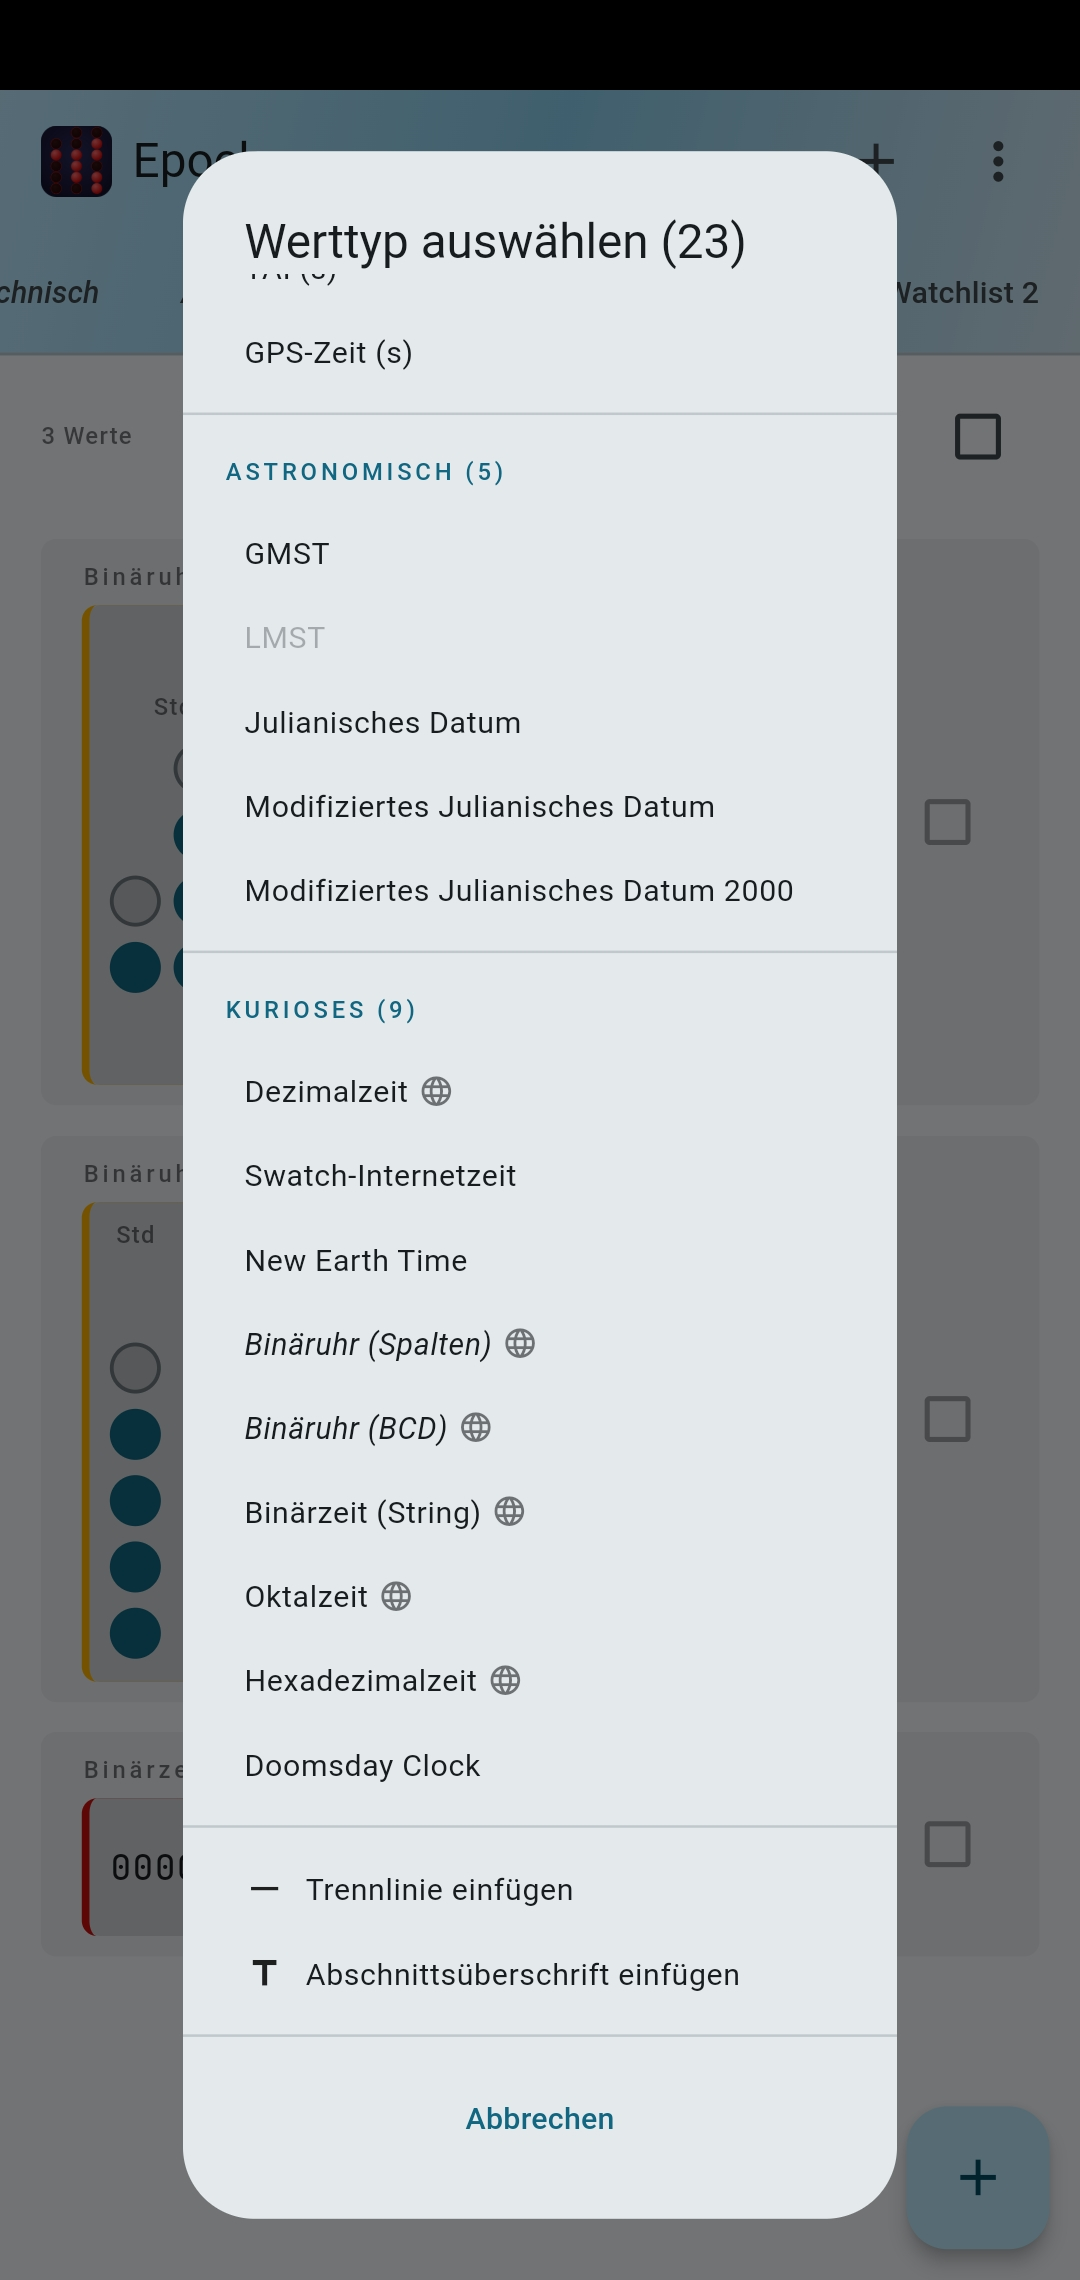
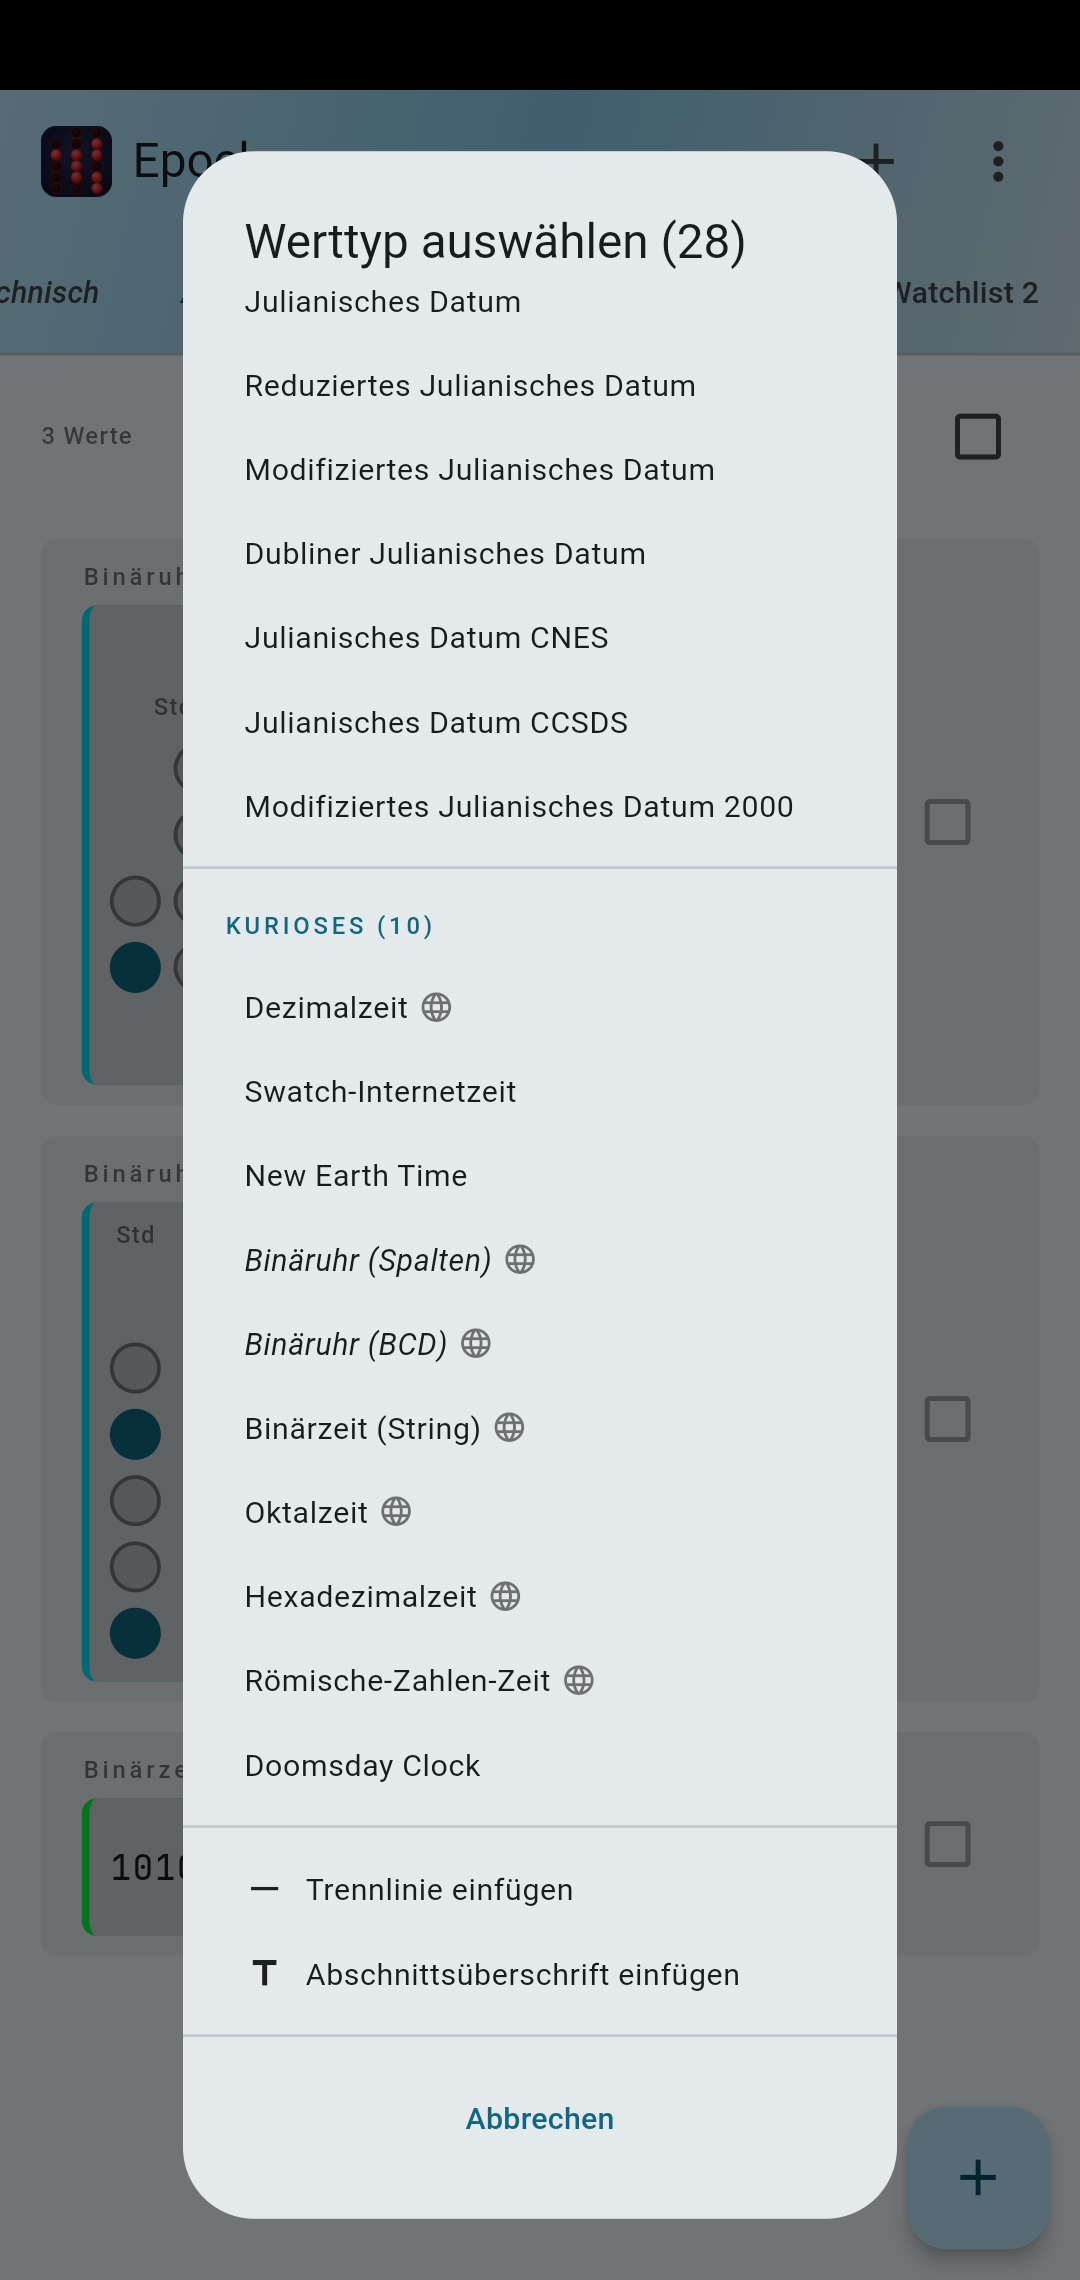
Release 1.6.0 - build script: create sha256sums file - README, CHANGELOG - fastlane: changelogs, full_description, screenshots

diff --git a/lib/time_utils.dart b/lib/time_utils.dart
@@ -464,7 +464,7 @@ class TimeUtils {
   /// from 1 January of its year until the next entry (simplification: changes
   /// within a year are not modelled). Source: the timeline at
   /// https://en.wikipedia.org/wiki/Doomsday_Clock – verify when adding entries.
-  /// Last check for accuracy of hardcoded values: 2026-09-01.
+  /// Last check for accuracy of hardcoded values: 2026-10-27.
   static const Map<int, int> _doomsdaySecondsToMidnightByYear = {
     1969: 600,  1972: 720,  1974: 540,  1980: 420,  1981: 240,
     1984: 180,  1988: 360,  1990: 600,  1991: 1020, 1995: 840,

diff --git a/README.md b/README.md
@@ -83,8 +83,9 @@ also happen to spell out **E**legant **p**resentation **o**f
 
 ### Formats and display options
 - Date and time formats: presets or custom patterns; 12/24-hour format
-- Expanded date (ISO week number, day of the year), thousands separator
+- Expanded date (ISO week number, day of the year)
 - Day quarter color on or off
+- Thousands separator switch
 
 ### Config files
 - Export, import and reset all preferences (cross-platform, with automatic
@@ -111,10 +112,10 @@ also happen to spell out **E**legant **p**resentation **o**f
 - All settings stored locally on your device
 - No permissions required – for LMST you can enter longitude manually, or
   temporarily grant ACCESS_COARSE_LOCATION permission (one-time setup step)
-- Free software (GPL), reproducible builds
+- Free software (GPL), F-Droid reproducible builds
 
 ### Planned
-- Android widgets and value conversion between time systems
+- Android widgets, value conversion between time systems, new value types, and more
 
 
 ## What makes Epoch different?
@@ -129,10 +130,9 @@ which ones you care about, and explains what each one means.
   friends or colleagues abroad), including their upcoming clock changes
 - need current time zone rules although your phone's system no longer
   receives updates: old devices keep outdated rules, Epoch ships its own
-  up-to-date IANA database (e. g. recent changes in Canada)
+  up-to-date IANA database (e. g. for recent changes in Canada)
 - want to see how any moment, past or future, looks in all time systems,
   without touching your system clock
-  - need the Unix timestamp, Julian Date, GPS or sidereal time of a given date
 - enjoy unusual time representations like Swatch Internet Time, day seconds,
   Roman numerals or binary clocks
 - do amateur astronomy and want a single app for sidereal time, LMST and
@@ -290,16 +290,14 @@ Check the file integrity (Linux):
 ```
 $ sha256sum --check --ignore-missing sha256sums.txt
 ```
-Check the signature (`apksigner` is part of the Android SDK build tools):
+Check the signature with `apksigner verify --print-certs <downloaded apk>` (`apksigner` is part of the Android SDK build tools):
 ```
-$ apksigner verify --print-certs app-arm64-v8a-release.apk
-V2 Signer: certificate DN: CN=RealEarthling, OU=Unknown, O=RealNoitasinagro, L=AC, ST=NRW, C=DE
+$ apksigner verify --print-certs app-arm64-v8a-release.apk | grep SHA-256
 V2 Signer: certificate SHA-256 digest: 7263c0bfce95b625839598b01fdcc695c04cdbe6dd4fa34a02a2d3ad2522c246
-V2 Signer: certificate SHA-1 digest: ba8cfe955430805cfe79d69660da4c15fb27a9b3
-V2 Signer: certificate MD5 digest: dfc7f26fc6b12cc29d6fc1751f25580e
 ```
[1 lines of base64/hex data omitted]
-
[1 lines of base64/hex data omitted]
+The same fingerprint is published independently of this repository in F-Droid's [build metadata](https://gitlab.com/fdroid/fdroiddata/-/blob/master/metadata/io.github.RealEarthling.epoch.yml) (`AllowedAPKSigningKeys`). \
+If the digest differs, or `apksigner` reports an error, do not install the APK.
 
 ## Contributing
 

diff --git a/CHANGELOG.md b/CHANGELOG.md
@@ -2,10 +2,14 @@
 
 ## [Unreleased]
 
+---
+
+## [1.6.0] - 2026-10-28
+
 ### Added
 - 🆒 Time Shift (new menu item): show any moment between 1970 and 2038 in all values, running or frozen,
 without touching the system clock; title bar shows the real system time meanwhile,
-Focus screen has an optional indicator, new config key`focus_time_shift_indicator` (cf. [config manual](https://github.com/RealNoitasinagro/epoch/blob/main/example_configs/CONFIG_MANUAL.md))
+Focus screen has an optional indicator, new config key `focus_time_shift_indicator` (cf. [config manual](https://github.com/RealNoitasinagro/epoch/blob/main/example_configs/CONFIG_MANUAL.md))
 - new value type: Roman numerals time under Curiosities (12/24-hour format, seconds optional)
 - (more) license texts (CLDR, JetBrains Mono) readable in the app
 
